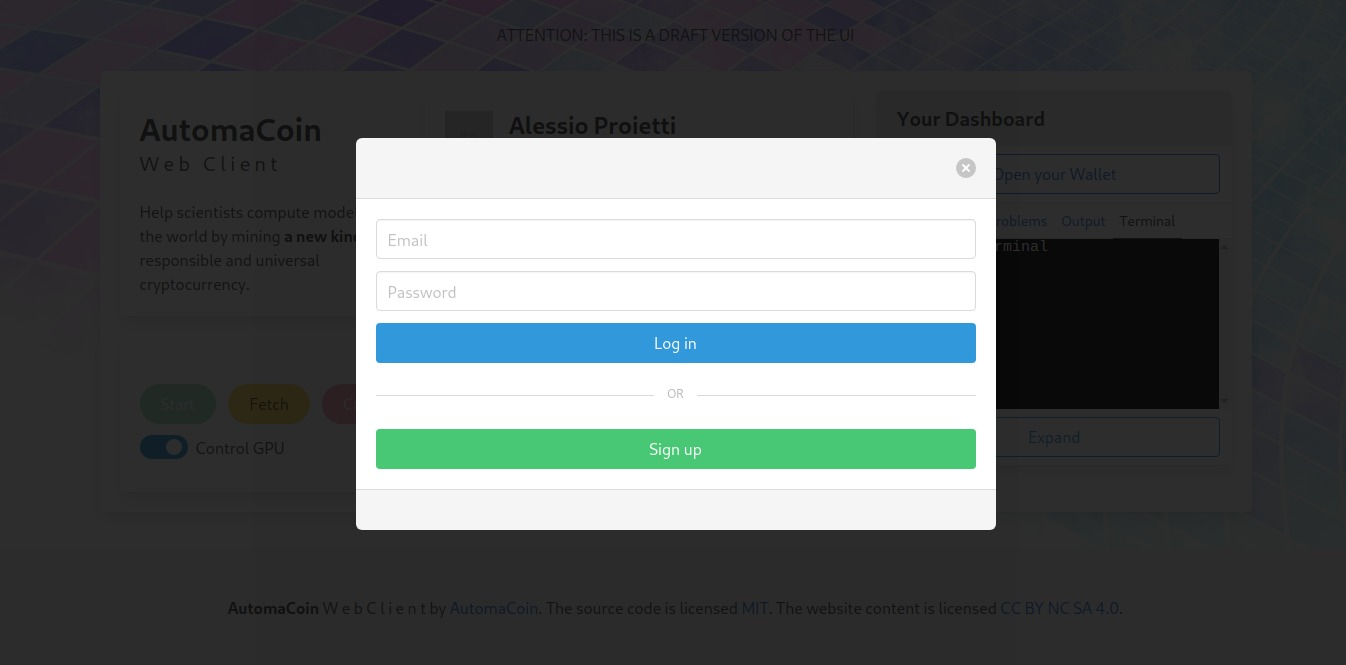
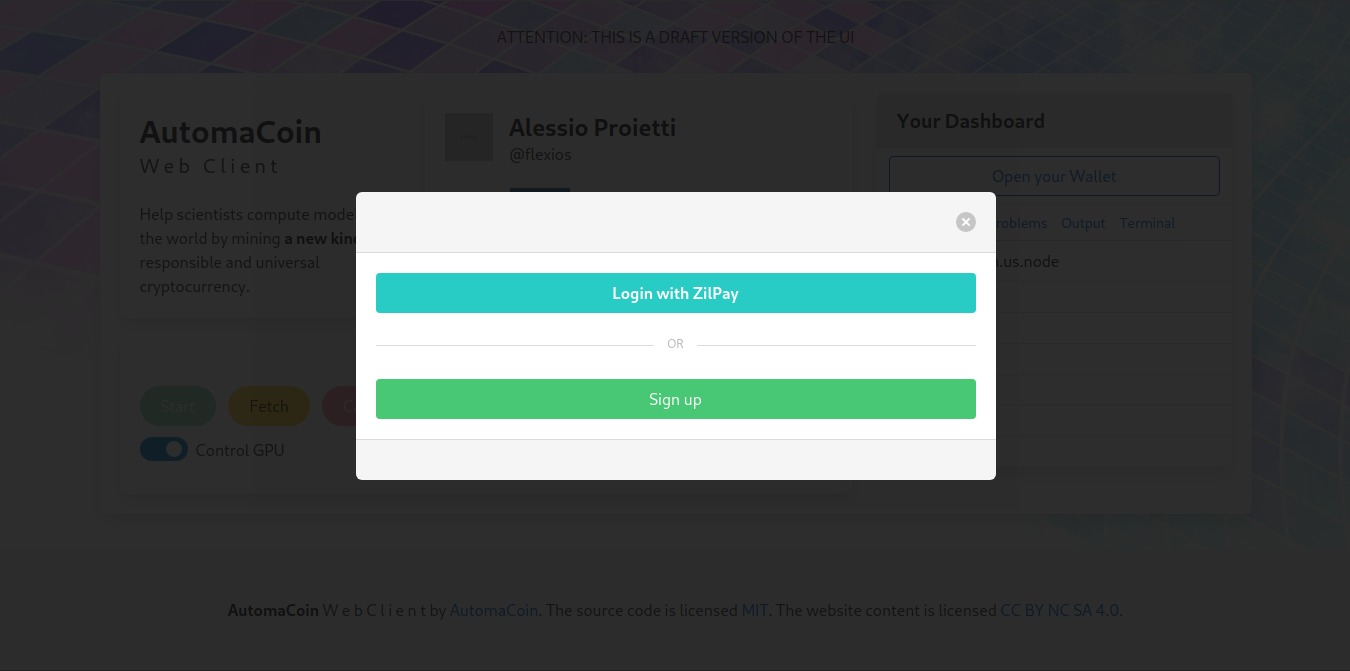
zilpay login implementation V0

Changed region(s): [[0.2496, 0.1805, 0.9049, 0.812]]

diff --git a/src/app/app.js b/src/app/app.js
@@ -32,34 +32,37 @@ export function dashboardComponent() {
         expand: false,
         tab: "nodes",
         title: "Your Dashboard",
-        term: new Terminal({
+        terminal: new Terminal({
             cols: 38,
             rows: 10
         }),
-        termOutput: new Terminal({
+        output: new Terminal({
             cols: 38,
             rows: 10
         }),
-        termProblems: new Terminal({
+        problems: new Terminal({
             cols: 38,
             rows: 10
         }),
 
         init: function () {
-            this.term.open(document.getElementById('terminal'));
-            this.termOutput.open(document.getElementById('output'));
-            this.termProblems.open(document.getElementById('problems'));
+            this.terminal.open(document.getElementById('terminal'));
+            this.output.open(document.getElementById('output'));
+            this.problems.open(document.getElementById('problems'));
 
-            this.term.write('Hello from Terminal');
-            this.termOutput.write('Hello from Output');
-            this.termProblems.write('Hello from Problems');
+            this.terminal.write('Hello from Terminal');
+            this.output.write('Hello from Output');
+            this.problems.write('Hello from Problems');
         },
 
         detach: function () {
             document.getElementById('terminalOverlay').appendChild(document.getElementById(this.tab))
+            this[this.tab].resize(50, 30);
+
         },
 
         attach: function () {
+            this[this.tab].resize(38, 10);
             document.getElementById('terminalHarbor').appendChild(document.getElementById(this.tab))
         }
     }
@@ -72,8 +75,13 @@ export function userProfileComponent() {
 
         smodal: false,
 
-        histogram: () => {
+        histogram: function () {
             document.querySelector('#histogram').appendChild(barChart([6, 10, 2]));
+        },
+
+        login: function() {
+            window.zilPay.wallet.connect();
+            this.smodal =! this.smodal;
         }
 
     }

diff --git a/src/styles.scss b/src/styles.scss
@@ -1,5 +1,5 @@
-@import './assets/automacoin_styles.scss';
 @import '~bulma/bulma.sass';
 @import '~bulma-switch/dist/css/bulma-switch.sass';
 @import '~bulma-pageloader/dist/css/bulma-pageloader.sass';
 @import '~bulma-divider/dist/css/bulma-divider.sass';
+@import './assets/automacoin_styles.scss';

diff --git a/src/index.js b/src/index.js
@@ -12,3 +12,5 @@ window.optionsComponent = optionsComponent;
 window.addEventListener('load', function () {
     setTimeout(() => document.querySelector('#pageloader').classList.remove("is-active"), 1500);
 });
+
+

diff --git a/src/assets/automacoin_styles.scss b/src/assets/automacoin_styles.scss
@@ -1,0 +1,8 @@
+.automacoin-modal {
+    width:30%;
+}
+   
+.is-automacoin-zilpay {
+    background-color:#29ccc4 !important;
+}
+

diff --git a/README.md b/README.md
@@ -7,18 +7,18 @@ Here the link to the project website: https://www.automacoin.com.
 
 This is the documentation of the Web Client: 
 
-* [Manual](documentation/manual-index.md)
-* [Architecture](documentation/architecture-index.md)
+* [Manual](./documentation/manual-index.md)
+* [Architecture](./documentation/architecture-index.md)
 
 ## How It appers now
 
-![Client Automacoin Screen](/documentation/screenshot.jpeg?raw=true "Client Automacoin Screen")
+![Client Automacoin Screen](./documentation/screenshot.jpeg?raw=true "Client Automacoin Screen")
 
-![Client Automacoin Screen2](/documentation/screenshot2.jpeg?raw=true "Client Automacoin Screen2")
+![Client Automacoin Screen2](./documentation/screenshot2.jpeg?raw=true "Client Automacoin Screen2")
 
-![Client Automacoin Screen3](/documentation/screenshot3.jpeg?raw=true "Client Automacoin Screen3")
+![Client Automacoin Screen3](./documentation/screenshot3.jpeg?raw=true "Client Automacoin Screen3")
 
-![Client Automacoin Screen4](/documentation/screenshot4.jpeg?raw=true "Client Automacoin Screen4")
+![Client Automacoin Screen4](./documentation/screenshot4.jpeg?raw=true "Client Automacoin Screen4")
 
 
 ## References

diff --git a/documentation/manual-index.md b/documentation/manual-index.md
@@ -11,13 +11,13 @@ Install all dependencies by executing
 ```
 
 
-Run locally, leveraging webpack-dev-server
+Run locally, leveraging BrowserSync
 
 ```
     yarn serve 
 ```
 
-or build in production mode
+or build in production mode to deploy the package
 
 ```
     yarn build 
